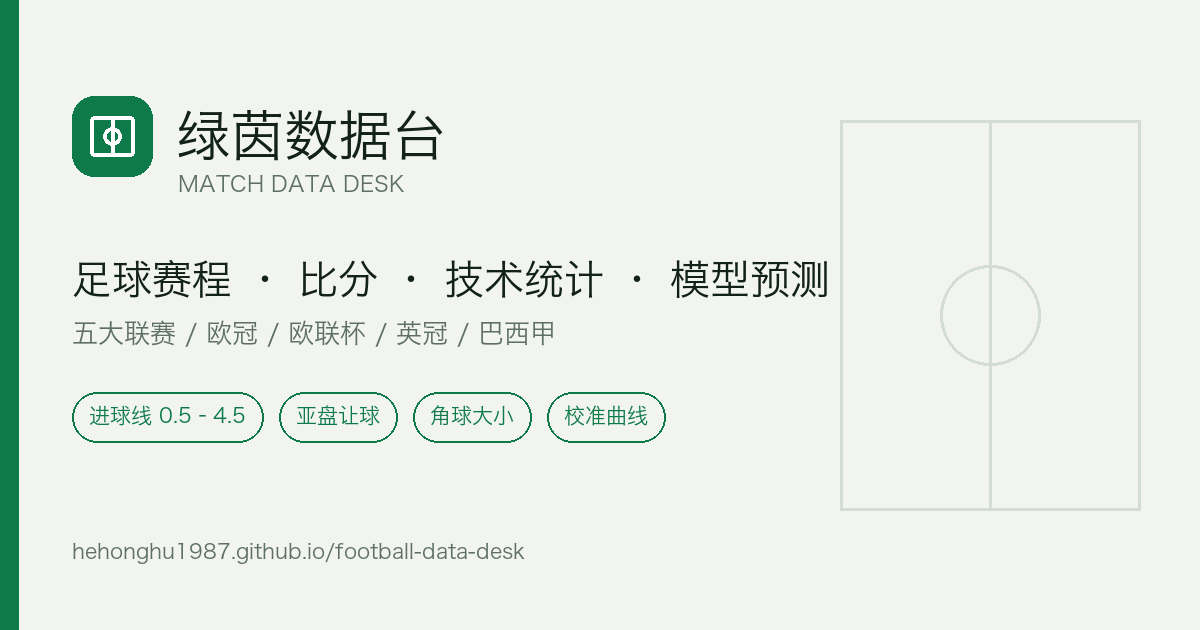
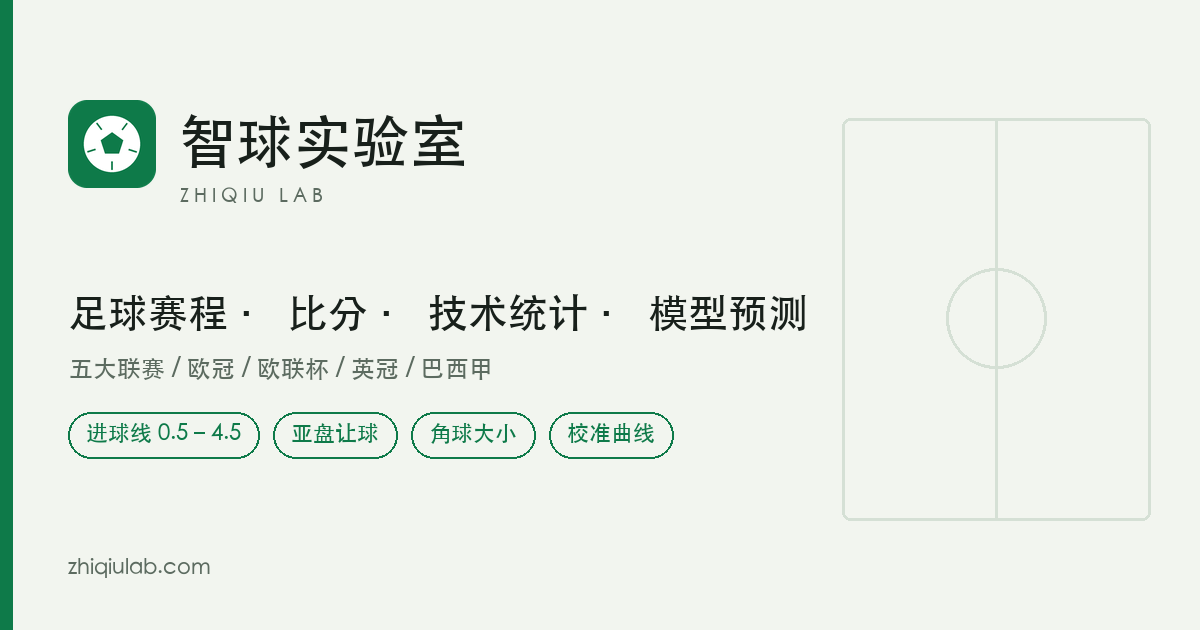
改名：绿茵数据台 → 智球实验室（ZHIQIU LAB）
- 站点标题、品牌区、分享标题、JSON-LD、PWA 名称、404 页全部改名为「智球实验室」
- 英文副标题改为 ZHIQIU LAB
- SEO/每日简报生成器品牌名同步更新
- 重新生成分享图 og-image.png（新名字 + 新域名 zhiqiulab.com）
- 仓库描述与主页地址更新为 https://zhiqiulab.com

diff --git a/template.html b/template.html
@@ -7,37 +7,37 @@
 <meta http-equiv="Pragma" content="no-cache">
 <meta http-equiv="Expires" content="0">
 <script>document.documentElement.classList.add("js-boot");setTimeout(function(){document.documentElement.classList.remove("js-boot")},15000);</script>
-<title>绿茵数据台 · 足球赛程比分与模型预测</title>
+<title>智球实验室 · 足球赛程比分与模型预测</title>
 <meta name="description" content="每 30 分钟刷新数据的足球数据台：五大联赛、欧冠、英冠、巴西甲的赛程比分、射门射正角球等技术统计、球队近况与攻防模型预测，含进球线、亚盘让球与角球盘口概率。">
 <meta name="theme-color" content="#0E7A49">
 <meta name="robots" content="index,follow,max-image-preview:large">
 <link rel="canonical" href="https://zhiqiulab.com/">
 <meta property="og:type" content="website">
-<meta property="og:site_name" content="绿茵数据台">
+<meta property="og:site_name" content="智球实验室">
 <meta property="og:locale" content="zh_CN">
-<meta property="og:title" content="绿茵数据台 · 足球赛程比分与模型预测">
+<meta property="og:title" content="智球实验室 · 足球赛程比分与模型预测">
 <meta property="og:description" content="每 30 分钟刷新的足球数据台：赛程比分、技术统计、球队近况与攻防模型预测，含进球线、亚盘与角球盘口概率。">
 <meta property="og:url" content="https://zhiqiulab.com/">
 <meta property="og:image" content="https://zhiqiulab.com/og-image.png">
 <meta property="og:image:width" content="1200">
 <meta property="og:image:height" content="630">
-<meta property="og:image:alt" content="绿茵数据台：足球赛程比分与模型预测">
+<meta property="og:image:alt" content="智球实验室：足球赛程比分与模型预测">
 <meta name="twitter:card" content="summary_large_image">
-<meta name="twitter:title" content="绿茵数据台 · 足球赛程比分与模型预测">
+<meta name="twitter:title" content="智球实验室 · 足球赛程比分与模型预测">
 <meta name="twitter:description" content="每 30 分钟刷新的足球数据台：赛程比分、技术统计与攻防模型预测，含进球线、亚盘与角球盘口概率。">
 <meta name="twitter:image" content="https://zhiqiulab.com/og-image.png">
 <link rel="manifest" href="manifest.json">
 <meta name="mobile-web-app-capable" content="yes">
 <meta name="apple-mobile-web-app-capable" content="yes">
 <meta name="apple-mobile-web-app-status-bar-style" content="default">
-<meta name="apple-mobile-web-app-title" content="绿茵数据台">
-<meta name="application-name" content="绿茵数据台">
+<meta name="apple-mobile-web-app-title" content="智球实验室">
+<meta name="application-name" content="智球实验室">
 <link rel="apple-touch-icon" href="icons/icon-192.png">
 <link rel="icon" href="icons/icon-192.png" type="image/png">
 <link rel="icon" href="og-icon.png" type="image/png">
 <link rel="prefetch" href="data/history.json" as="fetch" crossorigin>
 <script type="application/ld+json">
-{"@context":"https://schema.org","@type":"WebSite","name":"绿茵数据台","alternateName":"MATCH DATA DESK","url":"https://zhiqiulab.com/","description":"足球赛程比分、技术统计与攻防模型预测，覆盖五大联赛、欧冠、欧联杯、英冠、巴西甲及各国杯赛，含进球线、亚盘与角球盘口概率。","inLanguage":"zh-CN","publisher":{"@type":"Organization","name":"绿茵数据台"},"about":[{"@type":"Thing","name":"足球赛程与比分"},{"@type":"Thing","name":"足球技术统计"},{"@type":"Thing","name":"足球比赛模型预测"}]}
+{"@context":"https://schema.org","@type":"WebSite","name":"智球实验室","alternateName":"ZHIQIU LAB","url":"https://zhiqiulab.com/","description":"足球赛程比分、技术统计与攻防模型预测，覆盖五大联赛、欧冠、欧联杯、英冠、巴西甲及各国杯赛，含进球线、亚盘与角球盘口概率。","inLanguage":"zh-CN","publisher":{"@type":"Organization","name":"智球实验室"},"about":[{"@type":"Thing","name":"足球赛程与比分"},{"@type":"Thing","name":"足球技术统计"},{"@type":"Thing","name":"足球比赛模型预测"}]}
 </script>
 <link rel="preload" href="fonts/barlow-condensed-600.woff2" as="font" type="font/woff2" crossorigin>
 <style>
@@ -1560,7 +1560,7 @@ td.gsep{border-left:1px solid var(--line)}
 
 <noscript>
   <div class="noscript-note">
-    <p class="noscript-title">绿茵数据台 · 足球赛程比分与模型预测</p>
+    <p class="noscript-title">智球实验室 · 足球赛程比分与模型预测</p>
     <p>本站提供英超、西甲、意甲、德甲、法甲、欧冠、欧联杯、英冠、巴西甲及各国杯赛的每日赛程、比分与技术统计（射门、射正、角球、控球率等），并对每场比赛给出攻防模型预测：胜平负概率、进球线（0.5～4.5 球）、亚盘让球与角球大小盘口概率。</p>
     <p>页面为前端渲染，开启 JavaScript 后可查看完整赛程表、球队近 30 场逐场数据、双方历史交锋与盘口对照，以及模型校准曲线。</p>
     <p><a href="/teams/index.html">→ 球队索引（静态页，含各队近期战绩与逐场技术统计）</a></p>
@@ -1569,7 +1569,7 @@ td.gsep{border-left:1px solid var(--line)}
 </noscript>
 <header class="topbar">
   <div class="topbar-inner">
-    <a class="brand" href="#/" aria-label="绿茵数据台首页">
+    <a class="brand" href="#/" aria-label="智球实验室首页">
       <svg viewBox="0 0 32 32" width="32" height="32" aria-hidden="true">
         <rect x="1" y="1" width="30" height="30" rx="8" fill="#0E7A49"/>
         <rect x="6.5" y="8.5" width="19" height="15" rx="1.5" fill="none" stroke="#fff" stroke-width="1.3" opacity=".92"/>
@@ -1577,8 +1577,8 @@ td.gsep{border-left:1px solid var(--line)}
         <circle cx="16" cy="16" r="2.7" fill="none" stroke="#fff" stroke-width="1.3" opacity=".92"/>
       </svg>
       <span class="brand-text">
-        <span class="brand-title">绿茵数据台</span>
-        <span class="brand-sub">MATCH DATA DESK</span>
+        <span class="brand-title">智球实验室</span>
+        <span class="brand-sub">ZHIQIU LAB</span>
       </span>
     </a>
 
@@ -1610,7 +1610,7 @@ td.gsep{border-left:1px solid var(--line)}
 </header>
 
 <main class="shell" id="main-content" tabindex="-1">
-<h1 class="sr-only">绿茵数据台 · 足球赛程比分、技术统计与模型预测</h1>
+<h1 class="sr-only">智球实验室 · 足球赛程比分、技术统计与模型预测</h1>
 
   <!-- ============ HOME ============ -->
   <section id="home-view">
@@ -2224,7 +2224,7 @@ function copyPinned(){
     const hn = (h && (h.cn || h.name)) || "", an = (a && (a.cn || a.name)) || "";
     return `${i + 1}. ${hn} vs ${an}（${f.league || ""} ${fullTime(f.date)}）${base}#/match/${f.id}`;
   });
-  const text = "绿茵数据台 · 我的置顶比赛\n" + lines.join("\n");
+  const text = "智球实验室 · 我的置顶比赛\n" + lines.join("\n");
   if(navigator.clipboard && navigator.clipboard.writeText){
     navigator.clipboard.writeText(text).then(() => toast("已复制置顶比赛分享文本")).catch(() => prompt("复制下面内容分享：", text));
   } else {
@@ -2779,10 +2779,10 @@ function cHeader(ctx, subtitle){
   ctx.textBaseline = "top";
   cFont(ctx, 34, 700);
   ctx.fillStyle = CK.ink;
-  ctx.fillText("绿茵数据台", 146, 62);
+  ctx.fillText("智球实验室", 146, 62);
   cFont(ctx, 17, 400);
   ctx.fillStyle = CK.muted;
-  ctx.fillText("MATCH DATA DESK", 148, 104);
+  ctx.fillText("ZHIQIU LAB", 148, 104);
 
   if(subtitle){
     cFont(ctx, 20, 400);
@@ -2981,7 +2981,7 @@ async function exportMatchCard(m){
   ]);
 
   const safe = (hn + "-vs-" + an).replace(/[^\w\u4e00-\u9fa5-]+/g, "");
-  cDownload(cv, `${safe || "match"}-绿茵数据台.png`);
+  cDownload(cv, `${safe || "match"}-智球实验室.png`);
 }
 
 async function exportDailyCard(){
@@ -3051,7 +3051,7 @@ async function exportDailyCard(){
 
   const d = new Date();
   const stamp = `${d.getFullYear()}${String(d.getMonth() + 1).padStart(2, "0")}${String(d.getDate()).padStart(2, "0")}`;
-  cDownload(cv, `绿茵数据台-赛程预测-${stamp}.png`);
+  cDownload(cv, `智球实验室-赛程预测-${stamp}.png`);
 }
 
 function renderSearch(){
@@ -4652,7 +4652,7 @@ function renderTeam(id){
   $("#home-view").hidden = true;
   $("#team-view").hidden = false;
   $("#match-view").hidden = true;
-  setShareMeta((t.cn || t.name) + " · 绿茵数据台");
+  setShareMeta((t.cn || t.name) + " · 智球实验室");
 
   const rec = recordOf(state.all, id);
   const sum = summarize(state.all, id);
@@ -5881,7 +5881,7 @@ function renderMatch(id){
   state.mvSide = "all";
   $("#match-back").href = "#/team/" + encodeURIComponent(h.id);
   $("#match-back").textContent = "← 返回 " + (h.cn || h.name);
-  setShareMeta(`${h.cn || h.name} vs ${a.cn || a.name} · 绿茵数据台`);
+  setShareMeta(`${h.cn || h.name} vs ${a.cn || a.name} · 智球实验室`);
 
   const live = m.state === "in";          // 比分板标记进行中
   const pre = m.state === "pre";          // 明确未开赛（ESPN 占位 0:0 不算比分）

diff --git a/404.html b/404.html
@@ -3,7 +3,7 @@
 <head>
 <meta charset="utf-8">
 <meta name="viewport" content="width=device-width,initial-scale=1">
-<title>页面不存在 · 绿茵数据台</title>
+<title>页面不存在 · 智球实验室</title>
 <meta name="robots" content="noindex">
 <link rel="icon" href="og-icon.png" type="image/png">
 <style>

diff --git a/build_daily.py b/build_daily.py
@@ -23,7 +23,7 @@ SNAP_DIR = os.path.join(ROOT, "odds_snapshots")
 OUT = os.path.join(ROOT, "daily")
 SEO_SITEMAP = os.path.join(ROOT, "seo", "sitemap.xml")
 SITE = "https://zhiqiulab.com"
-BRAND = "绿茵数据台"
+BRAND = "智球实验室"
 BJ = timezone(timedelta(hours=8))
 
 CSS = """
@@ -119,7 +119,7 @@ def page(title, desc, body, canonical):
 <meta name="description" content="{esc(desc)}">
 <link rel="canonical" href="{esc(canonical)}">
 <meta name="theme-color" content="#0E7A49">
-<link rel="alternate" type="application/atom+xml" title="绿茵数据台 · 每日简报" href="feed.xml">
+<link rel="alternate" type="application/atom+xml" title="智球实验室 · 每日简报" href="feed.xml">
 <meta property="og:type" content="article">
 <meta property="og:site_name" content="{BRAND}">
 <meta property="og:title" content="{esc(title)}">
@@ -133,7 +133,7 @@ def page(title, desc, body, canonical):
 <header><div class="bar">
   <a href="/" style="display:flex;align-items:center;gap:10px;color:inherit">
     <span class="logo">绿</span>
-    <span class="brand">{BRAND}<small>MATCH DATA DESK</small></span>
+    <span class="brand">{BRAND}<small>ZHIQIU LAB</small></span>
   </a>
 </div></header>
 <div class="wrap">
@@ -372,7 +372,7 @@ def main():
 大小球方向判别力有限，请以胜平负为主参考。预测不代表确定结果。</div>
 <div class="foot">
   数据来源 ESPN 公开接口，赔率来自指定机构（平博/威廉希尔/立博/Unibet/Tipico/Winamax/1xBet 等）。<br>
-  在 <a href="/">绿茵数据台</a> 查看逐场技术统计、球队近况与校准曲线。<br>
+  在 <a href="/">智球实验室</a> 查看逐场技术统计、球队近况与校准曲线。<br>
   <a href="index.html">往期简报</a>
 </div>"""
 
@@ -415,7 +415,7 @@ def main():
                 f'<title>{BRAND} · 每日简报</title>'
                 f'<link href="{SITE}/daily/feed.xml"/>'
                 f'<updated>{now.isoformat()}</updated>'
-                '<author><name>绿茵数据台</name></author>'
+                '<author><name>智球实验室</name></author>'
                 + "".join(feed_items) + '</feed>')
         with open(os.path.join(OUT, "feed.xml"), "w", encoding="utf-8") as fh:
             fh.write(feed)

diff --git a/build_seo.py b/build_seo.py
@@ -19,7 +19,7 @@ ROOT = os.path.dirname(os.path.abspath(__file__))
 DATA = os.path.join(ROOT, "data", "matches.json")
 OUT = os.path.join(ROOT, "seo")
 SITE = "https://zhiqiulab.com"
-BRAND = "绿茵数据台"
+BRAND = "智球实验室"
 
 ORDER = ("shots", "sot", "corners", "offsides", "yellow", "red",
          "fouls", "possession", "blocked", "saves")
@@ -141,7 +141,7 @@ def page(title, desc, body, canonical):
 <header><div class="bar">
   <a href="/" style="display:flex;align-items:center;gap:10px;color:inherit">
     <span class="logo">绿</span>
-    <span class="brand">{BRAND}<small>MATCH DATA DESK</small></span>
+    <span class="brand">{BRAND}<small>ZHIQIU LAB</small></span>
   </a>
 </div></header>
 <div class="wrap">

diff --git a/MODEL.md b/MODEL.md
@@ -1,6 +1,6 @@
 # 模型说明与验证记录
 
-本文件记录绿茵数据台的预测模型口径、验证结果，以及**尝试过但无效**的方案，避免重复劳动。
+本文件记录智球实验室的预测模型口径、验证结果，以及**尝试过但无效**的方案，避免重复劳动。
 
 ---
 
